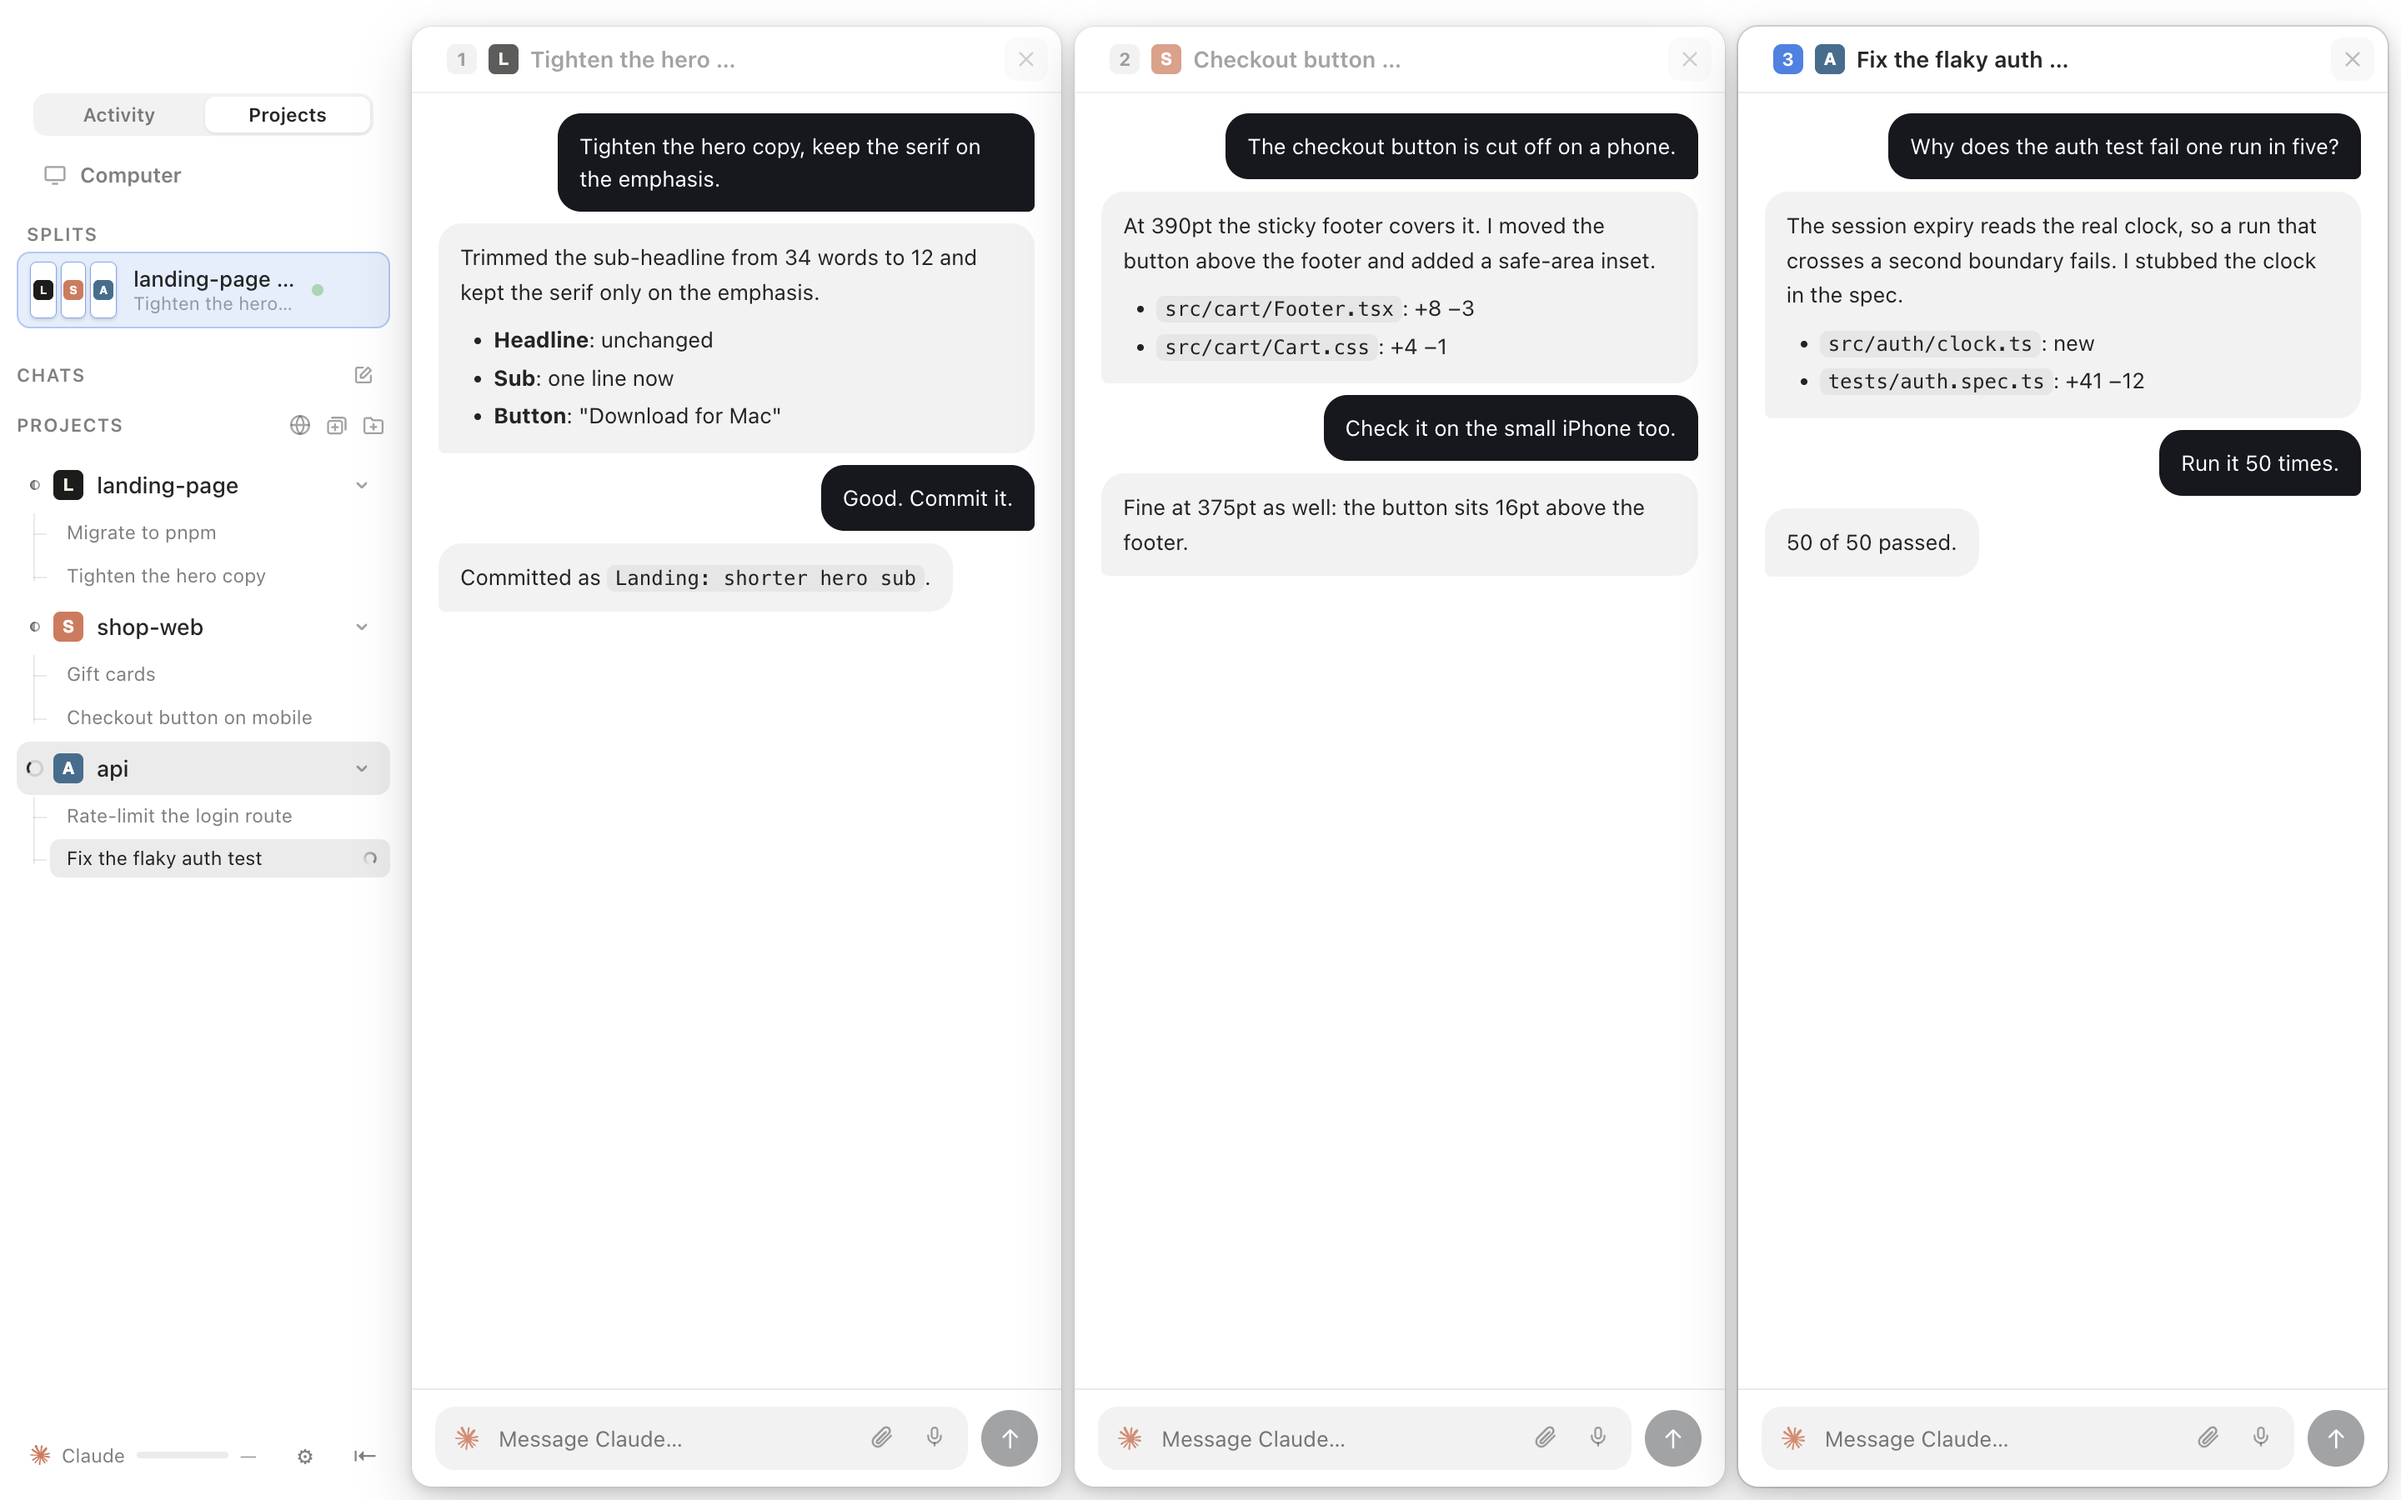
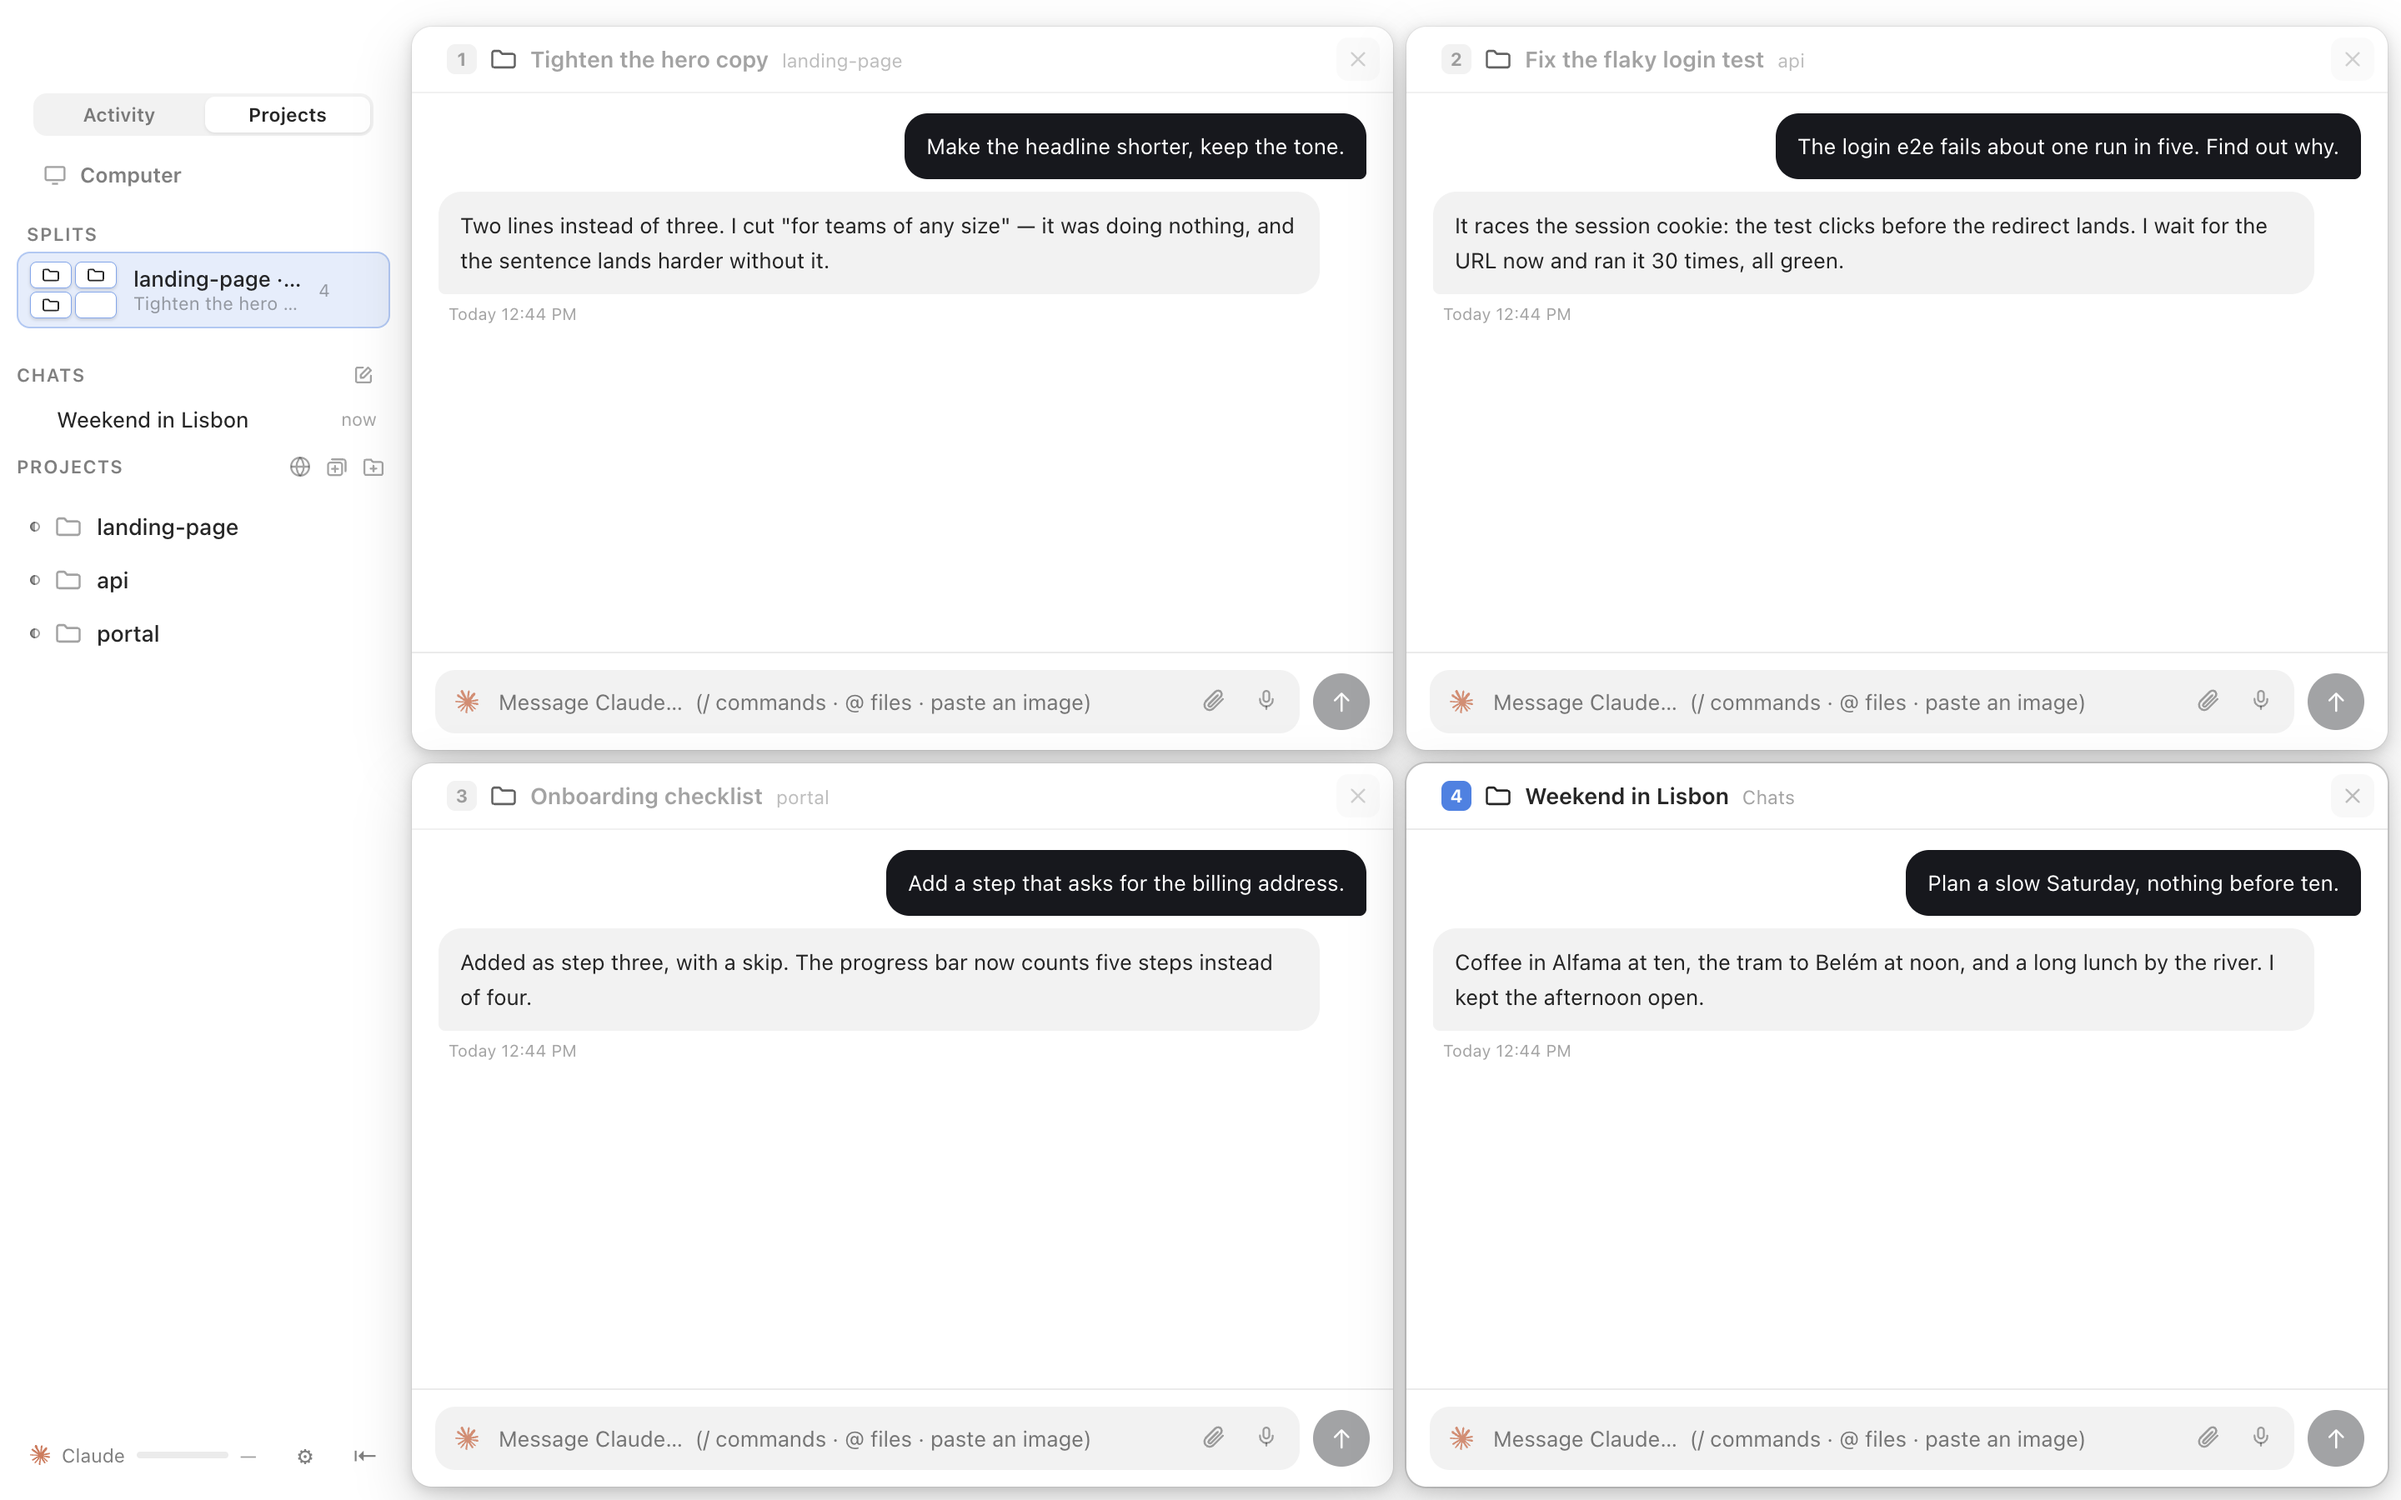
README and landing: new split screenshot with a loose chat, eight windows (2.1.0-beta.10)

diff --git a/docs/index.html b/docs/index.html
@@ -2466,7 +2466,7 @@
     }
     @media (prefers-reduced-motion: reduce) { .desk-sec .appwin .ap-side { animation: none; } }
 
-    /* --- V. Split view: up to four chats side by side ------------------- */
+    /* --- V. Split view: up to eight chats side by side ------------------- */
     #split .ap-side .ap-scroll > .ap-row:first-child { margin-top: 2px; }
     .sp-row { gap: 7px; padding: 5px 6px; }
     .sp-row.on { background: rgba(134, 166, 198, 0.2); box-shadow: inset 0 0 0 1px rgba(134, 166, 198, 0.45); }
@@ -3348,10 +3348,10 @@
     <div class="wrap feat-grid">
       <div class="feat-copy" data-rv>
         <span class="kicker"><span class="num">V.</span>Split view<span class="jp">分割表示</span><span class="beta">Beta</span></span>
-        <h2>Four chats, <em>one window.</em></h2>
-        <p>Drag a chat from the sidebar, or straight out of ⌘K, onto the window and it opens beside the one you are in. Up to four, from any projects: three across, or two over two. Move a window by its handle, pull its edge to resize it.</p>
-        <p>Each split is kept in the sidebar under Splits: a small picture of its windows, its chats, and a dot while one of them works. Click it to go back. <b>&#8984;1&ndash;4</b> picks a window; <b>&#8984;&#8679;[</b> and <b>&#8984;&#8679;]</b> go round them.</p>
-        <p class="beta-note">Available in the 2.1 beta, on the Mac and on iPad.</p>
+        <h2>Eight chats, <em>one window.</em></h2>
+        <p>Drag a chat from the sidebar, or straight out of ⌘K, onto the window and it opens beside the one you are in. Up to eight on the Mac, from any projects, and chats that belong to no project too. Move a window by its handle, pull its edge to resize it, or give a chat the whole window and step back.</p>
+        <p>Each split is kept in the sidebar under Splits: a small picture of its windows, its chats, and a dot while one of them works. Click it to go back. <b>&#8984;1&ndash;8</b> picks a window; <b>&#8984;&#8679;[</b> and <b>&#8984;&#8679;]</b> go round them.</p>
+        <p class="beta-note">Available in the 2.1 beta, on the Mac (eight windows) and on iPad (four).</p>
       </div>
       <div class="pane-wrap" data-rv style="--d:.15s">
         <div class="pane" style="--bobd:10.5s; --bobo:-3s">
@@ -3425,7 +3425,7 @@
             </div>
           </div></div>
           <p class="pane-cap">Three projects, three agents, one glance.</p>
-          <ul class="spec"><li>Up to four, from any projects</li><li>Drag a chat in, or &#8984;&#8617; in &#8984;K</li><li>Saved as a row in the sidebar</li><li>On iPad too</li></ul>
+          <ul class="spec"><li>Up to eight, from any projects or Chats</li><li>Drag a chat in, or &#8984;&#8617; in &#8984;K</li><li>Saved as a row in the sidebar</li><li>On iPad too</li></ul>
         </div>
       </div>
     </div>

diff --git a/README.md b/README.md
@@ -69,21 +69,21 @@ the agent can start the server itself and iterate while you watch.
 <tr>
 <td width="46%" valign="top">
 
-**Four chats, one window.** *New in the 2.1 beta.* Drag a chat from the
-sidebar onto the window and it opens beside the one you are in — up to four,
-from any projects: three across, or two over two. Drag a result out of
+**Eight chats, one window.** *New in the 2.1 beta.* Drag a chat from the
+sidebar onto the window and it opens beside the one you are in — up to eight,
+from any projects, and chats that belong to no project too. Drag a result out of
 <kbd>⌘</kbd><kbd>K</kbd> the same way, or press <kbd>⌘</kbd><kbd>↩</kbd> on it
 to open it beside. Move a window by its handle and pull its edge to resize it.
 Each split is kept as a row under Splits in the sidebar: a small picture of its
 windows with each project's logo, its chats, and a dot while one of them works.
-Click it to go back; × takes it apart. <kbd>⌘</kbd><kbd>1</kbd>–<kbd>4</kbd>
+Click it to go back; × takes it apart. <kbd>⌘</kbd><kbd>1</kbd>–<kbd>8</kbd>
 picks a window, <kbd>⌘</kbd><kbd>⇧</kbd><kbd>[</kbd> and
 <kbd>⌘</kbd><kbd>⇧</kbd><kbd>]</kbd> go round them. A narrow window keeps its
 browser or simulator as a small view inside it. The iPad app splits the same
-way.
+way, with up to four windows.
 
 </td>
-<td valign="top"><img src="docs/split-view.png" alt="Split view: three chats from three projects side by side in one window, with the split saved as a row under Splits in the sidebar"></td>
+<td valign="top"><img src="docs/split-view.png" alt="Split view: four chats side by side in one window, three from projects and one loose chat, with the split saved as a row under Splits in the sidebar"></td>
 </tr>
 
 <tr>

diff --git a/app/notes-2.1.0-beta.10.md b/app/notes-2.1.0-beta.10.md
@@ -1,0 +1,5 @@
+# Superagent 2.1.0-beta.10
+
+**A message of several lines no longer leaves a gap.** In a narrow window the lines were still indented to make room for the agent's logo, which had already moved to the strip below. They now start at the left edge.
+
+**Fixed three tests that had gone out of date,** so the full suite is green again. No change to how the app behaves.
